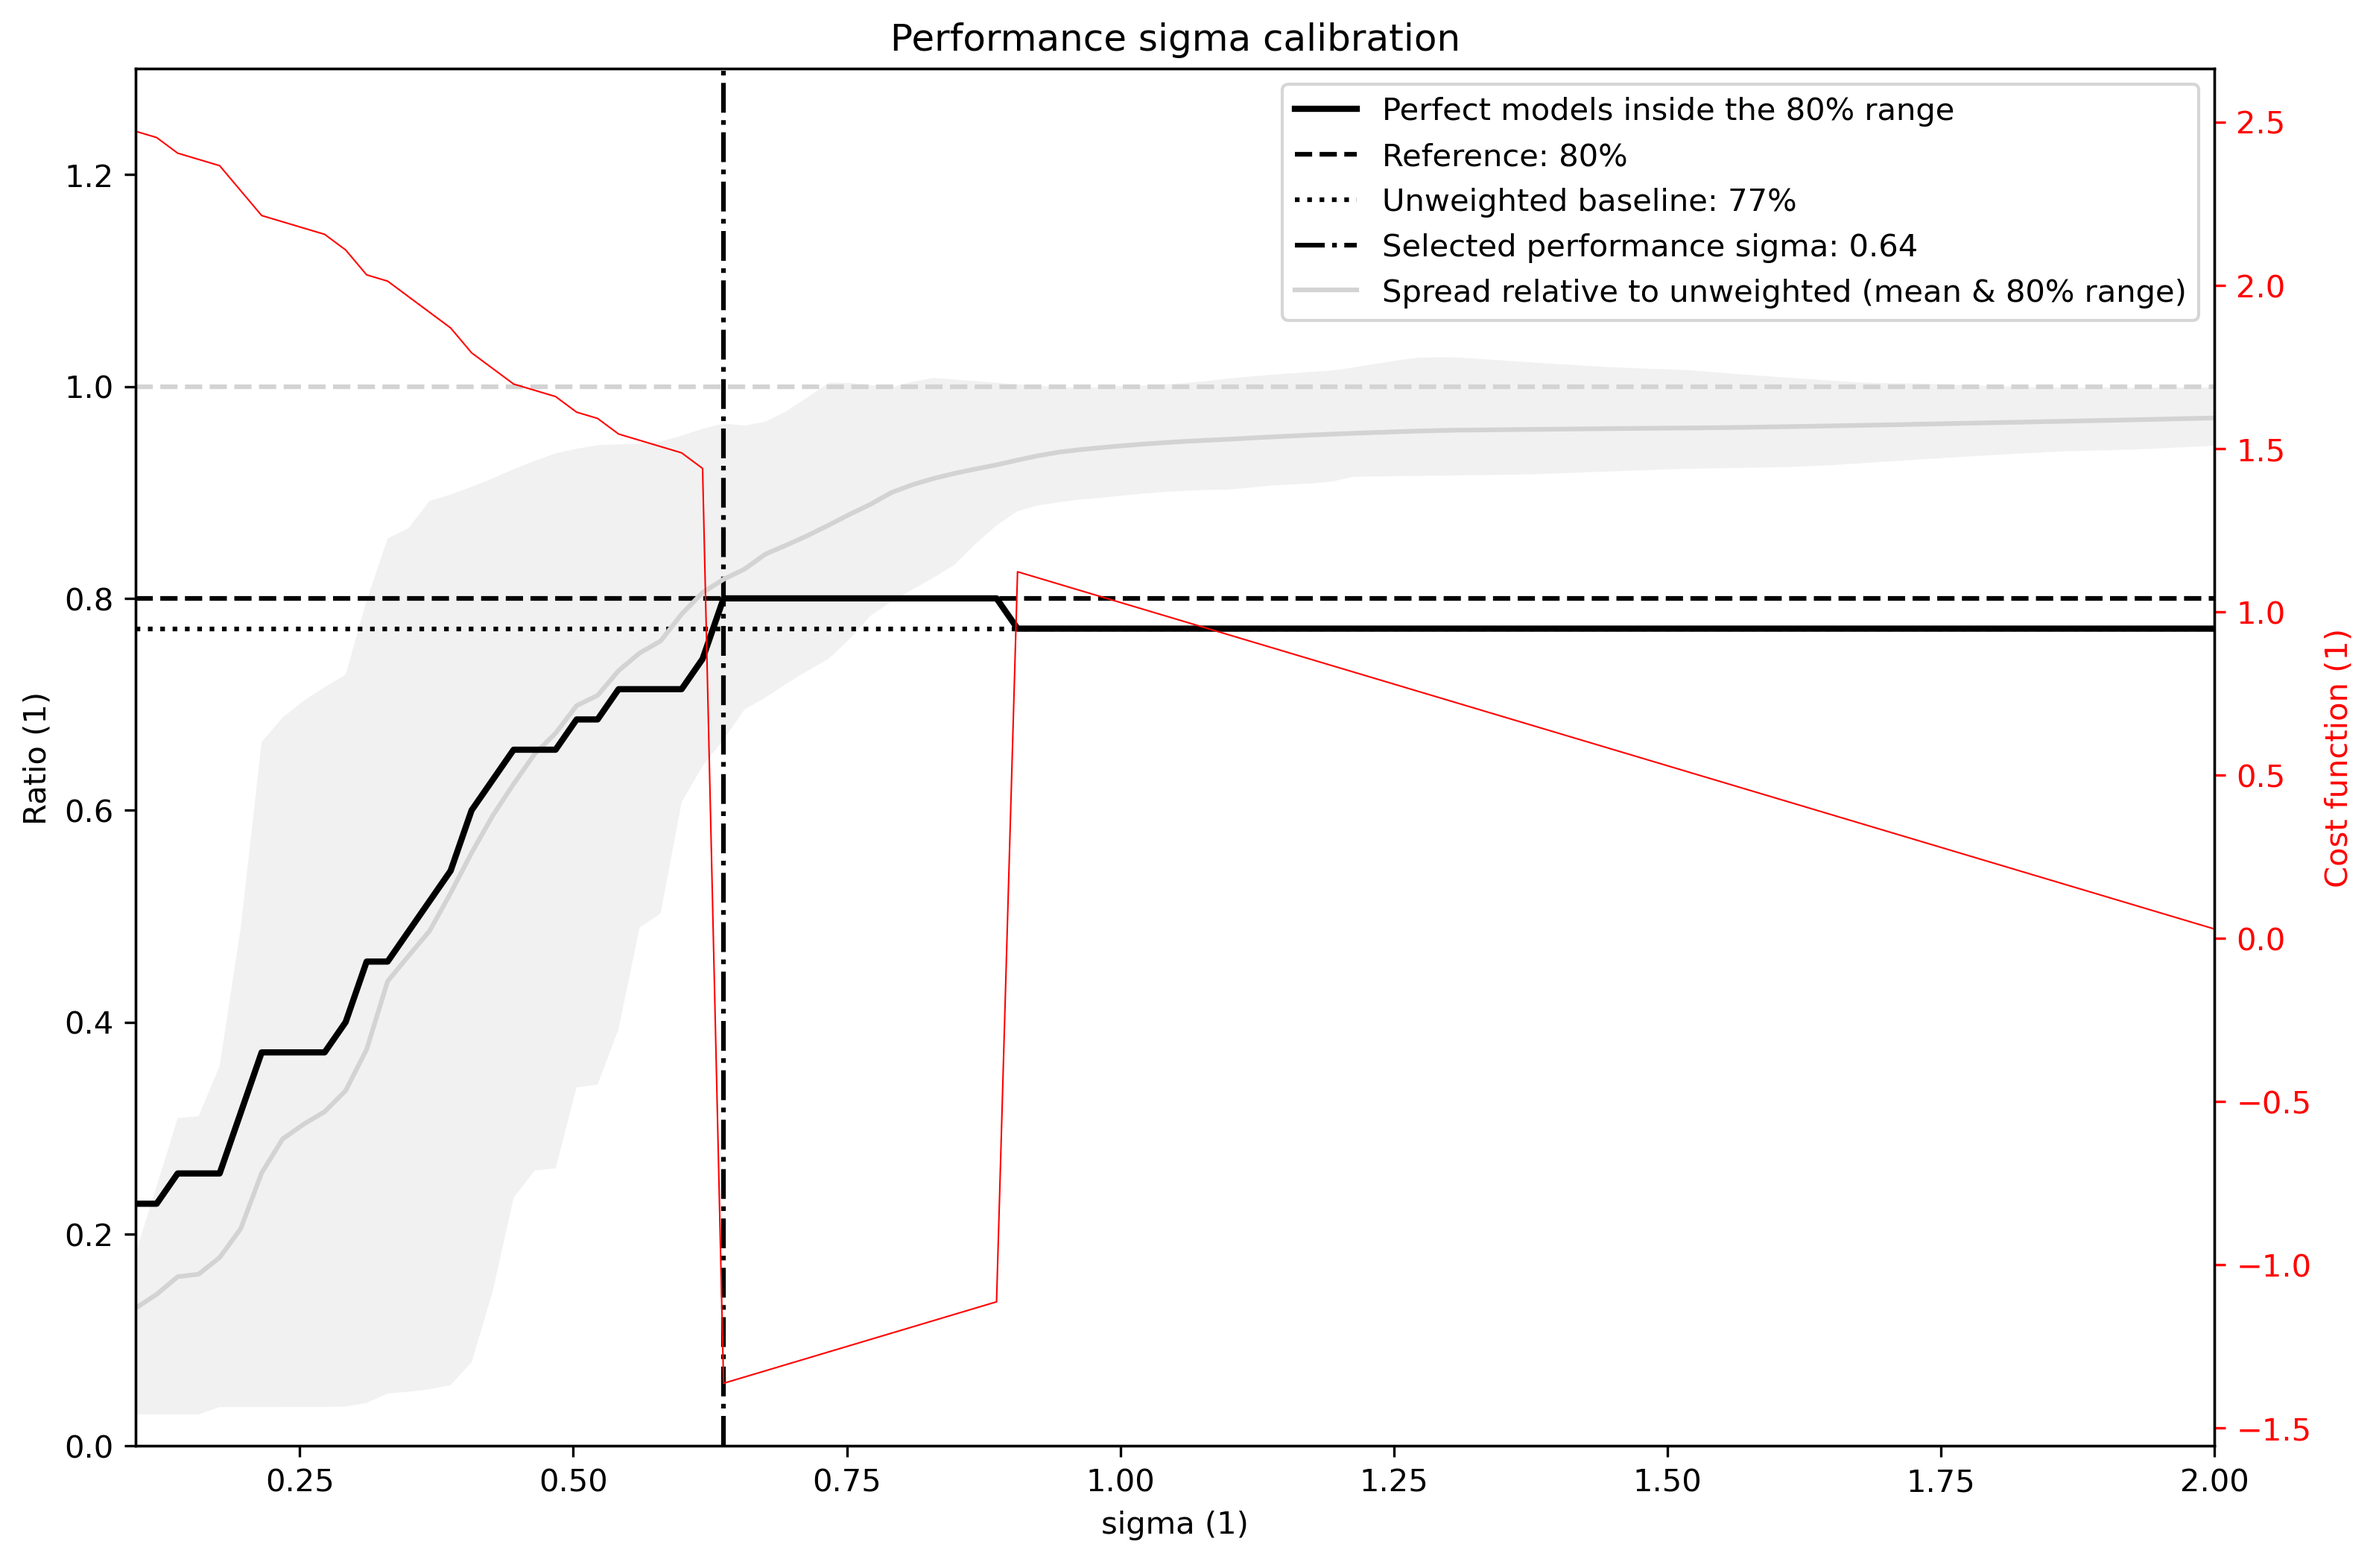
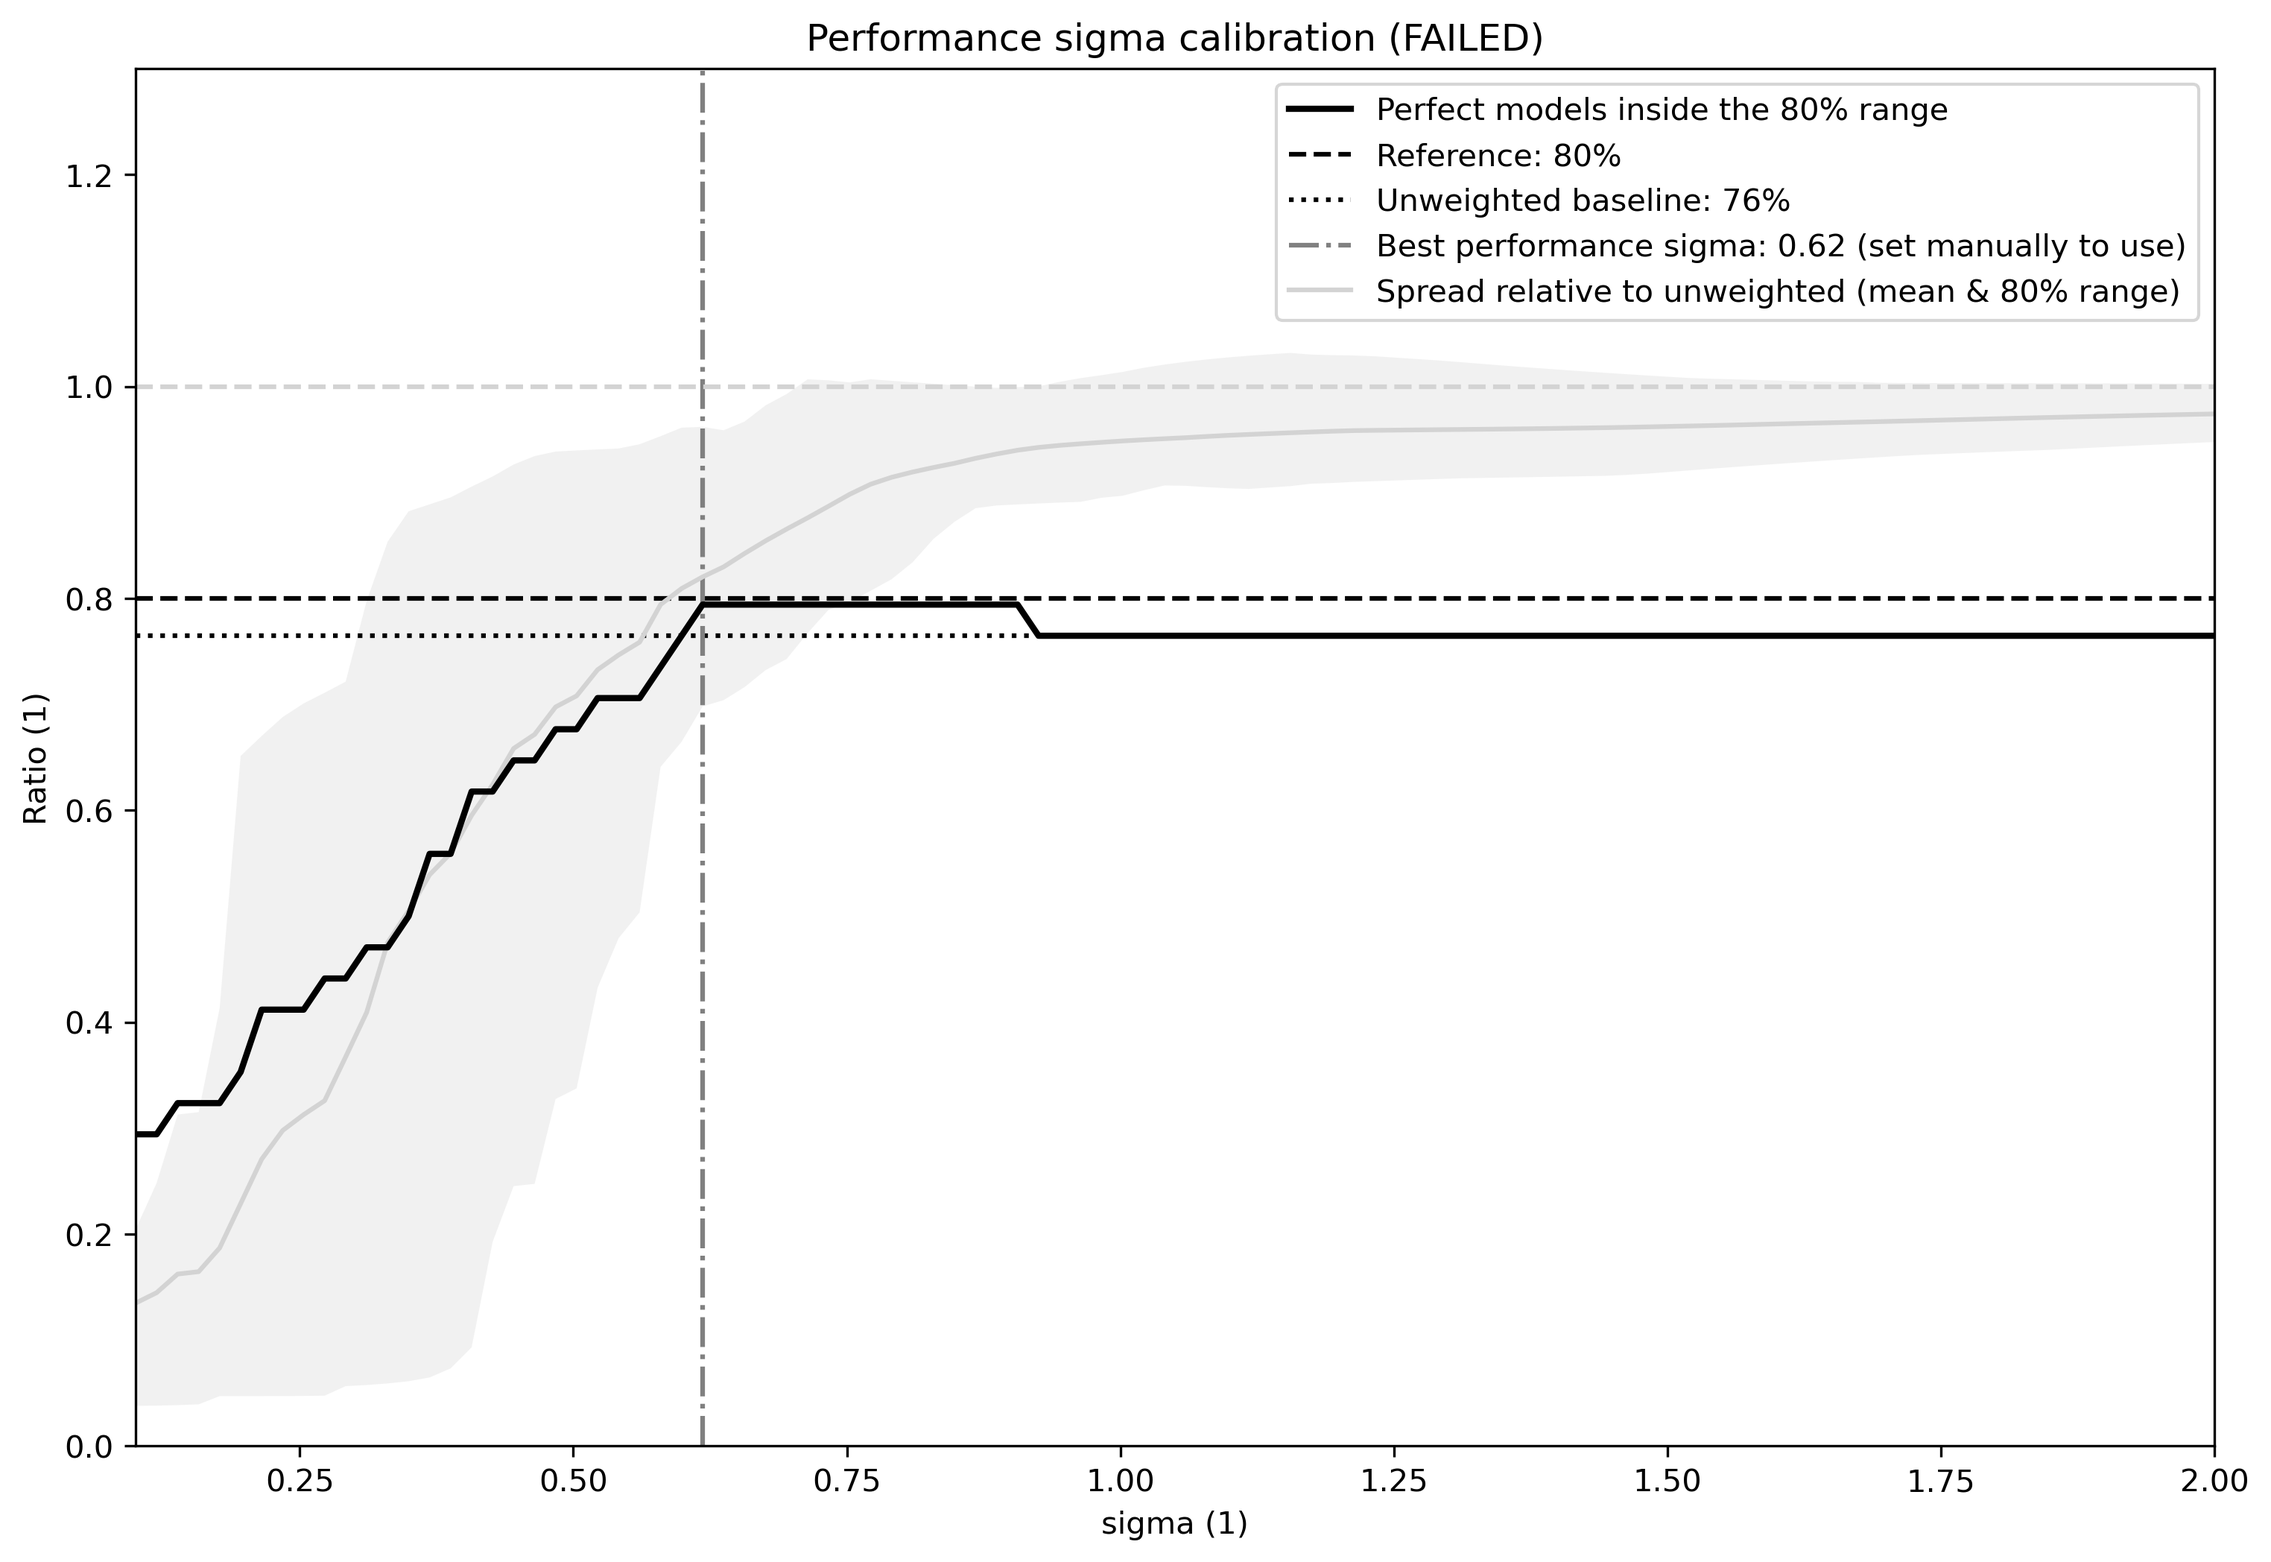
Update documentation

diff --git a/doc/sphinx/source/recipes/recipe_climwip.rst b/doc/sphinx/source/recipes/recipe_climwip.rst
@@ -43,8 +43,7 @@ User settings in recipe
     * ``performance_sigma`` xor ``calibrate_performance_sigma``: If ``performance_contributions`` is given exactly one of the two has to be given. Otherwise they can be skipped or not set.
 
         * ``performance_sigma``: float setting the shape parameter for the performance weights calculation (determined offline).
-        * ``calibrate_performance_sigma``: dictionary setting the performance sigma calibration. Has to contain at least the key-value pair specifying ``target``: ``variable_group``. Optional parameters for adjusting the calibration are not yet implemented.
-
+        * ``calibrate_performance_sigma``: dictionary setting the performance sigma calibration. Has to contain at least the key-value pair specifying ``target``: ``variable_group``. Optional parameters for adjusting the calibration are not yet implemented. WARNING: It is highly recommended to visually inspect the graphical output of the calibration to check if everything worked as intended. In case the calibration fails, the best performance sigma will still be indicated in the figure (see example figure 5 below) but not automatically picked - the user can decide to use it anyway by setting it in the recipe (not recommenced).
     * ``independence_sigma``: float setting the shape parameter for the independence weights calculation (determined offline). Can be skipped or not set if ``independence_contributions`` is skipped or not set.
     * ``performance_contributions``: dictionary where the keys represent the variable groups to be included in the performance calculation. The values give the relative contribution of each group, with 0 being equivalent to not including the group. Can be skipped or not set then weights will be based purely on model independence (this is mutually exclusive with ``independence_contributions`` being skipped or not set).
     * ``independence_contributions``: dictionary where the keys represent the variable groups to be included in the independence calculation. The values give the relative contribution of each group, with 0 being equivalent to not including the group. Can be skipped or not set then weights will be based purely on model performance (this is mutually exclusive with ``performance_contributions`` being skipped or not set).
@@ -164,7 +163,7 @@ Example plots
 .. figure::  /recipes/figures/climwip/performance_sigma_calibration.png
    :align:   center
 
-   Performance sigma calibration: The tick black line gives the reliability (c.f., weather forecast verification) which should reach at least 80%. The thick grey line gives the mean change in spread between unweighted and weighted 80% ranges as an indication of the weighting strength. The smallest sigma (i.e., strongest weighting) with is not overconfident (reliability >= 80%) is selected based on cost function (red line).
+   Performance sigma calibration: The thick black line gives the reliability (c.f., weather forecast verification) which should reach at least 80%. The thick grey line gives the mean change in spread between the unweighted and weighted 80% ranges as an indication of the weighting strength (if it reaches 1, the weighting has no effect on uncertainty). The smallest sigma (i.e., strongest weighting) with is not overconfident (reliability >= 80%) is selected. If the test fails (like in this example) the smallest sigma which comes closest to 80% will be indicated in the legend (but NOT automatically selected).
 
    .. _fig_climwip_6:
 .. figure::  /recipes/figures/climwip/temperature_change_weighted_map.png
